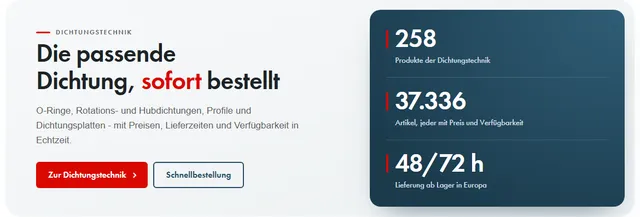
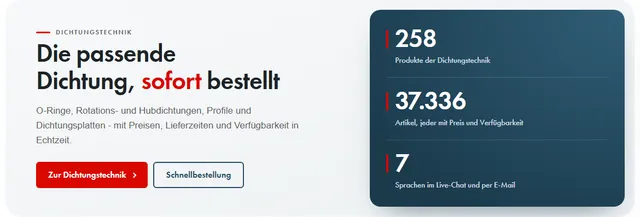
Content v11: the Page builder's last step without the Connection box, and no module promises stock or a delivery time
- To Magento: the Connection box (Connected / "The hub may read pages" / "Check the connection") is gone - a shop without
  a key still says what an admin does, in three steps (SARCLA 10.11.2026: "take out the connector check here - it makes
  no sense").
- The modules' sample words (the shop's own banners) promised stock and delivery times - the Campaign poster's picture in
  the "change into another module" gallery read "Schläuche und Armaturen, ab Lager". Rewritten with the shop's true
  claims (counts, prices and availability in real time, Track & Trace, six technologies, seven languages) in 11 modules,
  their gallery pictures drawn again; "Delivery promise" is now "The way of an order". A test reads every module's
  sample and default words in all 29 store views for "ab Lager" & co. and "48/72 h".

Changed region(s): [[0.5938, 0.6912, 0.7812, 0.8018], [0.5938, 0.8295, 0.8125, 0.8848]]

diff --git a/src/app/projects/studio/kinds/page/Publish.tsx b/src/app/projects/studio/kinds/page/Publish.tsx
@@ -28,7 +28,7 @@ import { AMBER, HAIRLINE, INK, MUTED } from "@/app/uc/report/ui";
 import type { PagePlan, SharedPlan } from "@/lib/convert/cmsPage";
 import type { Env } from "@/lib/convert/model";
 import type { PageBackup } from "@/lib/convert/cms";
-import { STATE_WORD, noKeySteps, type Check } from "@/lib/content/studio/kinds/page/magentoCheck";
+import { noKeySteps, type Check } from "@/lib/content/studio/kinds/page/magentoCheck";
 import { versionList, viewName, viewsOf, type MagentoRecord, type PageDoc } from "@/lib/content/studio/kinds/page/model";
 import type { MagentoView } from "@/lib/content/studio/kinds/page/shop";
 import { PINK, btn, mainBtn } from "../../parts";
@@ -223,65 +223,12 @@ function HtmlOf({ api, view }: { api: StudioApi; view: string }) {
   );
 }
 
-/** The connection to Magento, per environment, in plain words (Content v6 - SARCLA 09.11.2026: "the Magento connection is
- * not working yet"): no key on the hub yet, a key not checked yet, connected, refused - and "Check the connection", ONE
- * read of Magento's CMS pages with that key, nothing written. Content v7 (SARCLA 10.11.2026): "No key?" says the three
- * steps an admin takes, with Magento's menu path; a check says Connected / Refused / No key / Not reachable - never "The
- * hub answered 200." (lib/http/answer.ts, ./magentoCheck.ts). */
-export function Connection({ api, envs }: { api: StudioApi; envs: EnvState[] }) {
-  const [checks, setChecks] = useState<Partial<Record<Env, Check>>>({});
-  const [busy, setBusy] = useState<Env | null>(null);
-  const check = async (env: Env) => {
-    setBusy(env);
-    const r = await api.act<{ check: Check }>("magento_check", { env });
-    setBusy(null);
-    setChecks((c) => ({
-      ...c,
-      [env]: r.ok && r.result?.check ? r.result.check
-        : { env, state: "unreachable", line: "Not reachable - the hub could not finish the check", detail: r.ok ? null : r.error, pages: null, at: new Date().toISOString() },
-    }));
-  };
-  const DOT: Record<string, string> = { "no-key": "#9aa5b8", key: BLUE, connected: GREEN, refused: "#c5221f", "no-right": "#c5221f", unreachable: AMBER };
-  const noKey = envs.filter((e) => (checks[e.env] ?? e.check)?.state === "no-key" || (!e.key && !(checks[e.env] ?? e.check))).map((e) => e.env);
-  return (
-    <Box sx={{ mt: 1.25, border: `1px solid ${HAIRLINE}`, borderRadius: "8px", bgcolor: "#fff", overflow: "hidden" }}>
-      <Typography sx={{ px: 1.25, pt: 0.9, pb: 0.25, fontSize: "0.66rem", fontWeight: 800, letterSpacing: ".08em", textTransform: "uppercase", color: MUTED }}>Connection</Typography>
-      {envs.map((e) => {
-        const c = checks[e.env] ?? e.check ?? null;
-        const state = c?.state ?? (e.key ? "key" : "no-key");
-        const line = c?.line ?? e.connection ?? (e.key ? "Key set - not checked yet" : "No key yet");
-        const color = DOT[state] ?? MUTED;
-        const words = state === "no-key" ? "the hub has no key for this shop yet" : line.replace(/^(Connected|Refused|Not reachable) - /, "");
-        return (
-          <Box key={e.env} sx={{ px: 1.25, py: 0.75, borderTop: `1px solid ${HAIRLINE}`, "&:first-of-type": { borderTop: "none" } }}>
-            <Box sx={{ display: "flex", alignItems: "flex-start", gap: 1 }}>
-              <Typography sx={{ width: 76, flexShrink: 0, fontSize: "0.8rem", fontWeight: 700, color: INK, pt: 0.15 }}>{e.label}</Typography>
-              <Box sx={{ flex: 1, minWidth: 0 }}>
-                <Box sx={{ display: "flex", alignItems: "center", gap: 0.75, flexWrap: "wrap" }}>
-                  {/* the state in one squared word: Connected / Refused / No key / Not reachable */}
-                  <Box component="span" sx={{ display: "inline-flex", alignItems: "center", gap: 0.5, px: 0.6, py: 0.1, borderRadius: "3px", fontSize: "0.68rem", fontWeight: 800, letterSpacing: ".02em", color, bgcolor: `${color}14`, border: `1px solid ${color}33`, flexShrink: 0 }}>
-                    <Box component="span" sx={{ width: 6, height: 6, borderRadius: "1px", bgcolor: color }} />{STATE_WORD[state]}
-                  </Box>
-                  <Typography component="span" sx={{ fontSize: "0.8rem", color: state === "connected" ? GREEN : state === "refused" || state === "no-right" ? "#c5221f" : state === "no-key" ? MUTED : INK, minWidth: 0 }}>{words.charAt(0).toUpperCase() + words.slice(1)}</Typography>
-                </Box>
-                {c?.detail && <Typography sx={{ fontSize: "0.74rem", color: MUTED, mt: 0.25, overflowWrap: "anywhere" }}>{c.detail}</Typography>}
-                {e.from === "order" && !c && <Typography sx={{ fontSize: "0.74rem", color: MUTED }}>The order connector&apos;s Magento integration, used for pages too.</Typography>}
-                {e.key && (
-                  <Button size="small" disabled={busy === e.env} onClick={() => void check(e.env)} startIcon={busy === e.env ? <CircularProgress size={12} /> : undefined}
-                    sx={{ ...btn, px: 0, minWidth: 0, mt: 0.25, color: BLUE, fontSize: "0.76rem" }}>
-                    {busy === e.env ? "Asking Magento…" : c ? "Check again" : "Check the connection"}
-                  </Button>
-                )}
-              </Box>
-            </Box>
-          </Box>
-        );
-      })}
-      {/* "No key?" - what to do, said once for the shops without one (SARCLA 10.11.2026) */}
-      {noKey.length > 0 && <NoKeySteps envs={noKey} />}
-      <Typography sx={{ px: 1.25, pb: 0.9, pt: 0.25, fontSize: "0.72rem", color: MUTED }}>A check reads one page list from Magento - nothing is written.</Typography>
-    </Box>
-  );
+/** The connection to Magento (Content v6/v7: Connected / Refused / No key and "Check the connection") is gone - Content v11,
+ * SARCLA 10.11.2026 on that box: "take out the connector check here - it makes no sense" (a check could only prove READ;
+ * both shops have their key). Only a shop WITHOUT a key still says what an admin does, in three steps. */
+export function Connection({ envs }: { api?: StudioApi; envs: EnvState[] }) {
+  const noKey = envs.filter((e) => !e.key).map((e) => e.env);
+  return noKey.length ? <NoKeySteps envs={noKey} /> : null;
 }
 
 /** The three steps an admin takes to give the hub its key - the Magento menu path as its own short steps. */

diff --git a/src/lib/content/studio/kinds/page/modules/lib/trust.ts b/src/lib/content/studio/kinds/page/modules/lib/trust.ts
@@ -335,7 +335,7 @@ function delivery(m: ModuleRef) {
 
 const promisesField = (label: string, max: number, hint = "The shop's own promises - a promise the shop does not make is never written here."): FieldSpec =>
   ({ kind: "points", label, max, item: { title: "Bold words", text: "The rest" }, icons: true, hint });
-const figuresField: FieldSpec = { kind: "points", label: "Figures", max: 5, item: { title: "Figure", text: "What it counts" }, hint: "Real figures only: the shop's counts, the brand's facts (48/72 h, 7 languages)." };
+const figuresField: FieldSpec = { kind: "points", label: "Figures", max: 5, item: { title: "Figure", text: "What it counts" }, hint: "Real figures only: the shop's counts, the brand's facts (six technologies, 7 languages) - no delivery times, no stock." };
 
 export const TRUST: ModuleDef[] = [
   {
@@ -348,7 +348,7 @@ export const TRUST: ModuleDef[] = [
       eyebrow: "APSOparts", title: "Das Sortiment in Zahlen", text: "", link: { label: "", url: "" },
       points: [
         { title: "1.560", text: "Produkte in sechs Technologien", icon: "check" }, { title: "60.367", text: "Artikel, jeder mit Preis und Verfügbarkeit", icon: "check" },
-        { title: "48/72 h", text: "Lieferung ab Lager in Europa", icon: "check" }, { title: "7", text: "Sprachen im Live-Chat und per E-Mail", icon: "check" },
+        { title: "6", text: "Technologien in einem Shop", icon: "check" }, { title: "7", text: "Sprachen im Live-Chat und per E-Mail", icon: "check" },
       ],
     },
   },
@@ -371,7 +371,7 @@ export const TRUST: ModuleDef[] = [
       eyebrow: "Warum APSOparts", title: "Bestellen ohne Umwege", text: "", link: { label: "", url: "" },
       points: [
         { title: "Keine Zuschläge", text: "Auch kleine Bestellungen ohne Zuschlag für Kleinmengen.", icon: "box" },
-        { title: "48/72 h ab Lager", text: "Artikel ab Lager kommen in 48 bis 72 Stunden in ganz Europa an.", icon: "truck" },
+        { title: "Track & Trace", text: "Jede Sendung in ganz Europa mit Sendungsverfolgung.", icon: "truck" },
         { title: "Nach Mass", text: "Platten, Stäbe und Dichtungen mit DirectCUT nach Mass konfiguriert.", icon: "cut" },
         { title: "Hilfe in 7 Sprachen", text: "Live-Chat und E-Mail, persönlich beantwortet.", icon: "chat" },
       ],
@@ -390,7 +390,7 @@ export const TRUST: ModuleDef[] = [
       points: [
         { title: "Preise in Echtzeit", text: "Ihr Preis, die Lieferzeit und die Verfügbarkeit bei jedem Artikel.", icon: "check" },
         { title: "Keine Zuschläge für Kleinbestellungen", text: "Auch ein einzelner O-Ring kostet keinen Zuschlag.", icon: "check" },
-        { title: "Lieferung in 48/72 h", text: "Für Artikel ab Lager, in ganz Europa.", icon: "check" },
+        { title: "Lieferung in ganz Europa", text: "Mit Track & Trace bei jeder Sendung.", icon: "check" },
         { title: "3D-Daten zum Herunterladen", text: "CAD-Daten für die Konstruktion.", icon: "check" },
         { title: "Hilfe in 7 Sprachen", text: "Live-Chat und E-Mail.", icon: "check" },
       ],
@@ -417,7 +417,7 @@ export const TRUST: ModuleDef[] = [
         { title: "Artikel finden", text: "Über die Suche, die Kategorien oder die Artikelnummer.", icon: "search" },
         { title: "Preis sehen", text: "Preis, Lieferzeit und Verfügbarkeit in Echtzeit.", icon: "clock" },
         { title: "Bestellen", text: "Im Warenkorb - oder als Liste mit DirectUP hochgeladen.", icon: "cart" },
-        { title: "Geliefert", text: "Artikel ab Lager in 48/72 h in ganz Europa.", icon: "truck" },
+        { title: "Geliefert", text: "In ganz Europa, mit Track & Trace.", icon: "truck" },
       ],
     },
   },
@@ -439,19 +439,19 @@ export const TRUST: ModuleDef[] = [
     },
   },
   {
-    id: "trust-delivery", category: "trust", name: "Delivery promise", note: "A big figure beside the way of an order - ordered, packed, delivered - a light running along it",
+    id: "trust-delivery", category: "trust", name: "The way of an order", note: "A big word or figure beside the way of an order - ordered, packed, delivered - a light running along it",
     needs: [], takes: "none", min: 0, max: 0, layouts: [],
-    fields: [{ kind: "extra", key: "figure", label: "Big figure (e.g. 48/72 h)", max: 12 }, { kind: "extra", key: "figureText", label: "Under the figure", max: 60 }, F.eyebrow, F.title, F.text,
+    fields: [{ kind: "extra", key: "figure", label: "Big word or figure (e.g. Europe-wide)", max: 12 }, { kind: "extra", key: "figureText", label: "Under the figure", max: 60 }, F.eyebrow, F.title, F.text,
       { kind: "points", label: "The way of an order", max: 4, item: { title: "Step", text: "One line" }, icons: true }, { kind: "link", label: "Link under it" }],
     gap: needPoints("steps"), render: (m) => delivery(m),
-    tags: ["delivery", "shipping", "timeline", "48h", "stock"],
+    tags: ["delivery", "shipping", "timeline", "order", "tracking"],
     sample: {
-      extra: { figure: "48/72 h", figureText: "Lieferung ab Lager in Europa" },
-      eyebrow: "Lieferung", title: "Ab Lager ==schnell== bei Ihnen", text: "Für Artikel ab Lager, in ganz Europa - mit Track & Trace.", link: { label: "", url: "" },
+      extra: { figure: "Europaweit", figureText: "Lieferung mit Track & Trace" },
+      eyebrow: "Lieferung", title: "Von der Bestellung ==bis zu Ihnen==", text: "In ganz Europa - jede Sendung mit Track & Trace.", link: { label: "", url: "" },
       points: [
         { title: "Bestellt", text: "Online, mit Preis und Verfügbarkeit.", icon: "cart" },
-        { title: "Verpackt", text: "Artikel ab Lager gehen direkt los.", icon: "box" },
-        { title: "Geliefert", text: "In 48 bis 72 Stunden in ganz Europa.", icon: "truck" },
+        { title: "Verpackt", text: "Sorgfältig verpackt und versandt.", icon: "box" },
+        { title: "Geliefert", text: "In ganz Europa, mit Track & Trace.", icon: "truck" },
       ],
     },
   },

diff --git a/src/lib/content/studio/kinds/page/modules/lib/heroes.ts b/src/lib/content/studio/kinds/page/modules/lib/heroes.ts
@@ -377,7 +377,7 @@ export const HEROES: ModuleDef[] = [
     fields: [F.eyebrow, F.title, F.text, F.link, F.link2, F.feature, F.promises], defaults: heroDefaults, render: split,
     tags: ["hero", "intro", "top", "split", "picture"],
     sample: {
-      eyebrow: "Dichtungstechnik", title: "O-Ringe in ==jeder Grösse==, ab Lager bestellt",
+      eyebrow: "Dichtungstechnik", title: "O-Ringe in ==jeder Grösse==, online bestellt",
       text: "31 Produkte und 31.264 Artikel - vom Standard-NBR bis FFKM. Mit Preisen, Lieferzeiten und Verfügbarkeit in Echtzeit.",
       link: { label: "Zu den O-Ringen", url: "https://www.apsoparts.com/de-CH/dichtungstechnik/o-ringe-x-ringe.html" },
       link2: { label: "Schnellbestellung", url: "https://www.apsoparts.com/de-CH/quickorder/" },
@@ -404,7 +404,7 @@ export const HEROES: ModuleDef[] = [
     layouts: [], fields: [F.eyebrow, F.title, F.text, F.link, F.link2, F.promises], defaults: heroDefaults, render: products,
     tags: ["hero", "products", "fan", "stack", "bestseller"],
     sample: {
-      eyebrow: "Sortiment", title: "Dichtungen, Kunststoffe, Antriebe - ==ab Lager==",
+      eyebrow: "Sortiment", title: "Dichtungen, Kunststoffe, Antriebe - ==ein Shop==",
       text: "Über 60.000 Artikel in sechs Technologien - mit Preisen, Lieferzeiten und Verfügbarkeit in Echtzeit.",
       link: { label: "Zum Sortiment", url: "https://www.apsoparts.com/de-CH/dichtungstechnik.html" },
       link2: { label: "Schnellbestellung", url: "https://www.apsoparts.com/de-CH/quickorder/" },
@@ -427,9 +427,9 @@ export const HEROES: ModuleDef[] = [
     fields: [F.eyebrow, F.title, { kind: "text", label: "Lead", max: 700, rows: 5 }, { kind: "points", label: "Key facts", max: 3, item: { title: "Figure or word", text: "What it says" }, hint: "Real figures only - the shop's counts, its promises." }, { kind: "link", label: "Link under it" }],
     render: (m) => intro(m), tags: ["intro", "editorial", "lead", "facts", "text"],
     sample: {
-      eyebrow: "Dichtungstechnik", title: "Dichtungen für Maschinen und Anlagen, ==ab Lager==",
+      eyebrow: "Dichtungstechnik", title: "Dichtungen für Maschinen und ==Anlagen==",
       text: "Von O-Ringen über Rotations- und Hubdichtungen bis zu Profilen und Dichtungsplatten: die Dichtungstechnik umfasst 258 Produkte mit 37.336 Artikeln. Jeder Artikel zeigt seinen Preis, seine Lieferzeit und seine Verfügbarkeit in Echtzeit.",
-      points: [{ title: "258", text: "Produkte der Dichtungstechnik", icon: "check" }, { title: "37.336", text: "Artikel, jeder mit Preis und Verfügbarkeit", icon: "check" }, { title: "48/72 h", text: "Lieferung ab Lager in Europa", icon: "check" }],
+      points: [{ title: "258", text: "Produkte der Dichtungstechnik", icon: "check" }, { title: "37.336", text: "Artikel, jeder mit Preis und Verfügbarkeit", icon: "check" }, { title: "7", text: "Sprachen im Live-Chat und per E-Mail", icon: "check" }],
       link: { label: "Zur Dichtungstechnik", url: "https://www.apsoparts.com/de-CH/dichtungstechnik.html" },
     },
   },
@@ -445,7 +445,7 @@ export const HEROES: ModuleDef[] = [
       text: "O-Ringe, Rotations- und Hubdichtungen, Profile und Dichtungsplatten - mit Preisen, Lieferzeiten und Verfügbarkeit in Echtzeit.",
       link: { label: "Zur Dichtungstechnik", url: "https://www.apsoparts.com/de-CH/dichtungstechnik.html" },
       link2: { label: "Schnellbestellung", url: "https://www.apsoparts.com/de-CH/quickorder/" },
-      points: [{ title: "258", text: "Produkte der Dichtungstechnik", icon: "check" }, { title: "37.336", text: "Artikel, jeder mit Preis und Verfügbarkeit", icon: "check" }, { title: "48/72 h", text: "Lieferung ab Lager in Europa", icon: "check" }],
+      points: [{ title: "258", text: "Produkte der Dichtungstechnik", icon: "check" }, { title: "37.336", text: "Artikel, jeder mit Preis und Verfügbarkeit", icon: "check" }, { title: "7", text: "Sprachen im Live-Chat und per E-Mail", icon: "check" }],
     },
   },
   {

diff --git a/tests/studio-page-modules-nopromise.test.ts b/tests/studio-page-modules-nopromise.test.ts
@@ -1,0 +1,32 @@
+import assert from "node:assert/strict";
+import { test } from "node:test";
+import { STORE_VIEWS } from "../src/lib/content/studio/kinds/page/storeViews";
+import { newModule, normalizeModule } from "../src/lib/content/studio/kinds/page/modules/model";
+import { MODULES } from "../src/lib/content/studio/kinds/page/modules/registry";
+import { renderModule } from "../src/lib/content/studio/kinds/page/modules/render";
+import { SAMPLES2 } from "../src/lib/content/studio/kinds/page/modules/library2";
+import { STOCK_WORDS } from "../src/lib/content/studio/kinds/banner/brand";
+
+// Content v11 (SARCLA 10.11.2026, on the "change into another module" gallery): the Campaign poster's picture read
+// "Schläuche und Armaturen, ab Lager". The modules' sample words (copied from the shop's own banners) promised stock and
+// delivery times: "ab Lager", "48/72 h", "Lieferung ab Lager in Europa". They are what the gallery's pictures show and what
+// a fill starts from, so none of them may promise stock or a delivery time, in any shop language.
+const DELIVERY = /\b48\s*\/\s*72\b|\b(24|48|72)\s*(h|std|stunden|hours|heures|ore)\b|\b48 bis 72\b/i;
+const textOf = (html: string) => html.replace(/<style[\s\S]*?<\/style>/gi, " ").replace(/<[^>]+>/g, " ").replace(/&nbsp;/g, " ").replace(/\s+/g, " ");
+
+test("no module's sample or default words promise stock or a delivery time, in any store view", () => {
+  const stores = [...new Set(STORE_VIEWS.map((v) => v.key))];
+  const bad: string[] = [];
+  for (const d of MODULES) {
+    for (const store of stores) {
+      const m0 = newModule(d.id, store, "t1");
+      const sample = { ...((d as { sample?: object }).sample ?? {}), ...(SAMPLES2[d.id]?.(store) ?? {}) };
+      const m = normalizeModule({ type: d.id, settings: { ...m0.settings, ...sample } });
+      if (!m) continue;
+      const words = textOf(renderModule(m)) + " " + JSON.stringify(m.settings);
+      const hit = words.match(STOCK_WORDS) ?? words.match(DELIVERY);
+      if (hit) bad.push(`${d.id} (${store}): "${hit[0]}"`);
+    }
+  }
+  assert.deepEqual([...new Set(bad)].slice(0, 20), []);
+});

diff --git a/src/lib/content/studio/kinds/page/modules/lib/campaigns.ts b/src/lib/content/studio/kinds/page/modules/lib/campaigns.ts
@@ -359,7 +359,7 @@ export const CAMPAIGNS: ModuleDef[] = [
     fields: [F.eyebrow, F.title, F.text, F.link], defaults: (store) => ({ link: { label: wordsFor(store).all, url: "" } }), render: withProducts,
     tags: ["campaign", "products", "panel", "promotion", "selection"],
     sample: {
-      eyebrow: "O-Ringe / X-Ringe", title: "O-Ringe ==ab Lager==",
+      eyebrow: "O-Ringe / X-Ringe", title: "O-Ringe ==in jeder Grösse==",
       text: "31 Produkte mit 31.264 Artikeln - vom Standard-NBR bis FFKM.",
       link: { label: "Zu den O-Ringen", url: "https://www.apsoparts.com/de-CH/dichtungstechnik/o-ringe-x-ringe.html" },
     },
@@ -370,7 +370,7 @@ export const CAMPAIGNS: ModuleDef[] = [
     fields: [{ kind: "eyebrow", label: "Tag", max: 24 }, F.title, F.text, F.link, F.link2, F.feature], defaults: more, render: poster,
     tags: ["poster", "cover", "photo", "big", "campaign"],
     sample: {
-      eyebrow: "Fluidtechnik", title: "Schläuche und Armaturen, ==ab Lager==",
+      eyebrow: "Fluidtechnik", title: "Schläuche und Armaturen, ==online== bestellt",
       text: "490 Produkte mit 4.270 Artikeln - für Industrie, Chemie und Pharma.",
       link: { label: "Zur Fluidtechnik", url: "https://www.apsoparts.com/de-CH/fluidtechnik.html" },
       feature: { kind: "category", name: "Fluidtechnik", url: "https://www.apsoparts.com/de-CH/fluidtechnik.html", img: "https://www.apsoparts.com/media/wysiwyg/4_Fluid_Handling_Technology_1.jpg", meta: "", number: "", children: [] },

diff --git a/src/app/projects/studio/kinds/page/Changes.tsx b/src/app/projects/studio/kinds/page/Changes.tsx
@@ -89,7 +89,7 @@ function Editor({ open, change, onClose, onSave }: { open: boolean; change: Chan
             <Field label="Its value" value={d.value} onChange={(v) => up({ value: v })} />
           </Box>
         )}
-        <Field label="What it does, in a few words" value={d.note} onChange={(v) => up({ note: v })} max={300} placeholder="Delivery promise under the price" />
+        <Field label="What it does, in a few words" value={d.note} onChange={(v) => up({ note: v })} max={300} placeholder="A clearer button under the price" />
         <Hint>Long words go in as a placeholder Content writes: &lt;span class=&quot;apx-text&quot;&gt;[Text from Content: what they must do]&lt;/span&gt;. Class names you add start with apx-.</Hint>
         {problems.map((p) => <Typography key={p} sx={{ fontSize: "0.84rem", color: "#c5221f", mt: 1 }}>{p}</Typography>)}
       </DialogContent>
